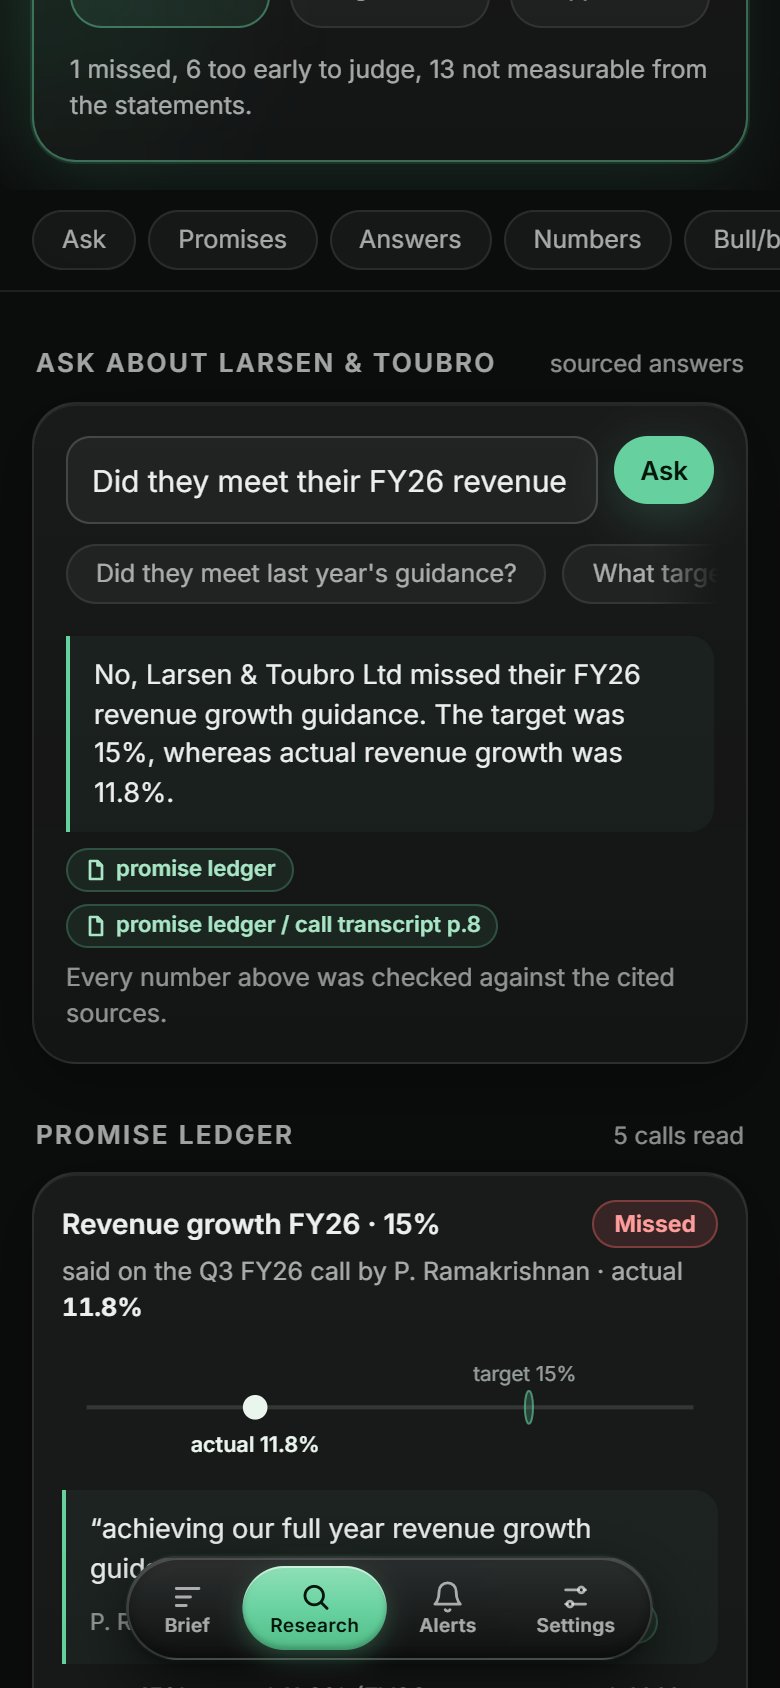
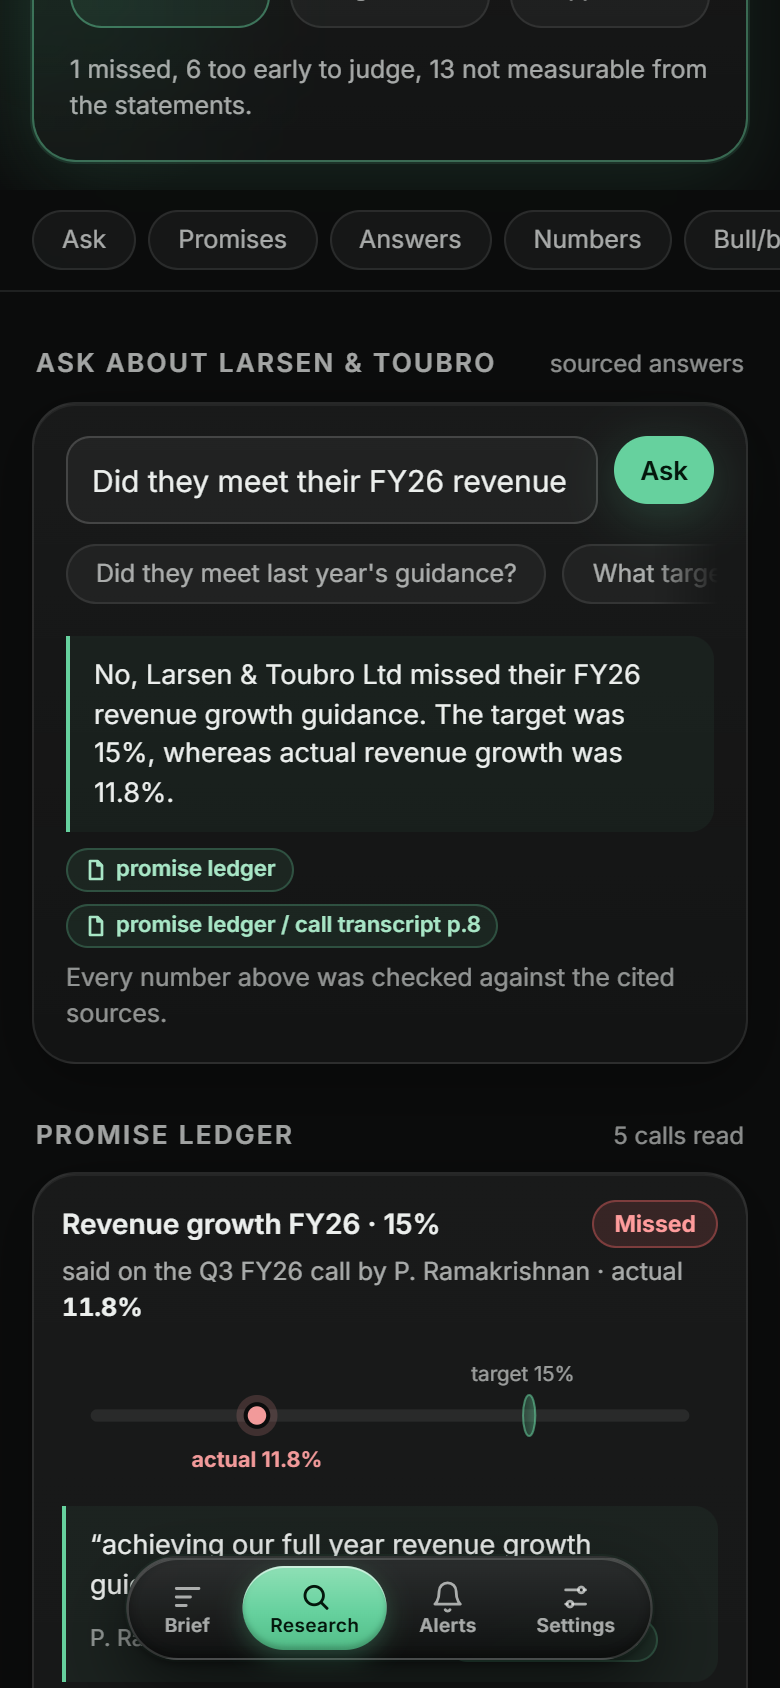
Prettier charts
Revenue chart: gradient bars that grow in, dashed gridlines, a smooth margin
curve that draws itself with a soft fill and dots, and the selected year's
value on top. Cash chart: gradient bars, baseline and a legend. Promise
target band: soft track, gradient band, and the actual marker slides in,
green when the target was met, red when not. Alert strip bars rounded.

Changed region(s): [[0.0923, 0.8009, 0.7692, 0.9858], [0.6154, 0.8009, 0.7385, 0.8626], [0.0615, 0.9858, 0.0923, 1.0]]

diff --git a/frontend/src/components/ui.tsx b/frontend/src/components/ui.tsx
@@ -95,65 +95,132 @@ export function CountUp({ value, format }: { value: number; format: (v: number) 
 }
 
 /** Small bar chart (annual values) with an optional line overlay (margin %). */
+/** Short rupee label for chart tops: 1,83,341 -> "1.83L", 44,465 -> "44.5K". */
+const short = (v?: number | null) => v == null ? "–" : Math.abs(v) >= 1e5 ? `${(v / 1e5).toFixed(2)}L` : Math.abs(v) >= 1e3 ? `${(v / 1e3).toFixed(1)}K` : `${Math.round(v)}`;
+
+/** Smooth line through points (Catmull-Rom as cubic Béziers). */
+function smooth(pts: [number, number][]) {
+  if (pts.length < 2) return "";
+  let d = `M${pts[0][0]},${pts[0][1]}`;
+  for (let i = 0; i < pts.length - 1; i++) {
+    const p0 = pts[i - 1] || pts[i], p1 = pts[i], p2 = pts[i + 1], p3 = pts[i + 2] || p2;
+    const c1 = [p1[0] + (p2[0] - p0[0]) / 6, p1[1] + (p2[1] - p0[1]) / 6];
+    const c2 = [p2[0] - (p3[0] - p1[0]) / 6, p2[1] - (p3[1] - p1[1]) / 6];
+    d += ` C${c1[0]},${c1[1]} ${c2[0]},${c2[1]} ${p2[0]},${p2[1]}`;
+  }
+  return d;
+}
+
 export function Bars({ data, label, metric, fmt, lineName }: {
   data: { x: string; y: number | null; line?: number | null }[]; label: string;
   metric?: string; fmt?: (v: number | null | undefined) => string; lineName?: string;
 }) {
+  const reduce = useReducedMotion();
   const [sel, setSel] = useState(data.length - 1);
-  const W = 340, H = 120, pad = 18;
   const cur = data[Math.min(sel, data.length - 1)];
-  const vals = data.map((d) => d.y ?? 0);
-  const max = Math.max(...vals, 1);
+  const W = 340, H = 168, top = 26, base = 140, left = 6, right = 6;
+  const plotH = base - top;
+  const max = Math.max(...data.map((d) => d.y ?? 0), 1) * 1.05;
+  const bw = (W - left - right) / data.length;
+  const yOf = (v: number) => base - (v / max) * plotH;
   const lines = data.map((d) => d.line).filter((v): v is number => v != null);
-  const lmin = Math.min(...lines, 0), lmax = Math.max(...lines, 1);
-  const bw = (W - pad * 2) / data.length;
+  const lmin = Math.min(...lines), lmax = Math.max(...lines);
+  const ly = (v: number) => top + 4 + (1 - (v - lmin) / (lmax - lmin || 1)) * plotH * 0.5;
+  const marks = data.map((d, i) => (d.line == null ? null : { i, x: left + i * bw + bw / 2, y: ly(d.line) }))
+    .filter((p): p is { i: number; x: number; y: number } => p != null);
+  const pts = marks.map((m) => [m.x, m.y] as [number, number]);
+  const linePath = smooth(pts);
+  const area = pts.length > 1 ? `${linePath} L${pts[pts.length - 1][0]},${base} L${pts[0][0]},${base} Z` : "";
   return (
     <div>
-    {metric && (
-      <div className="bars-head tnum">
-        <span className="faint small">{metric}</span>
-        <span className="small"><b>{cur?.x}</b> · {fmt ? fmt(cur?.y) : cur?.y}{lineName && cur?.line != null ? ` · ${lineName} ${cur.line.toFixed(1)}%` : ""}</span>
-      </div>
-    )}
-    <svg viewBox={`0 0 ${W} ${H + 18}`} width="100%" role="img" aria-label={label}>
-      {data.map((d, i) => {
-        const h = ((d.y ?? 0) / max) * H * 0.85;
-        return (
-          <g key={d.x} onClick={() => setSel(i)} style={{ cursor: "pointer" }}>
-            <rect x={pad + i * bw} y={0} width={bw} height={H + 18} fill="transparent" />
-            <rect x={pad + i * bw + bw * 0.18} y={H - h} width={bw * 0.64} height={Math.max(h, 1)} rx="4"
-              fill={i === sel ? "var(--mint)" : "rgba(102, 209, 158,0.28)"} />
-            <text x={pad + i * bw + bw / 2} y={H + 14} textAnchor="middle" fontSize="10"
-              fill={i === sel ? "rgba(236,239,237,0.9)" : "rgba(236,239,237,0.42)"}>{d.x}</text>
-          </g>
-        );
-      })}
-      {lines.length > 1 && (
-        <polyline fill="none" stroke="#f5c86b" strokeWidth="2" strokeLinejoin="round"
-          points={data.map((d, i) => d.line == null ? "" : `${pad + i * bw + bw / 2},${H - ((d.line - lmin) / (lmax - lmin || 1)) * H * 0.8 - 8}`).filter(Boolean).join(" ")} />
+      {metric && (
+        <div className="bars-head tnum">
+          <span className="faint small">{metric}</span>
+          <span className="small"><b>{cur?.x}</b> · {fmt ? fmt(cur?.y) : cur?.y}{lineName && cur?.line != null ? ` · ${lineName} ${cur.line.toFixed(1)}%` : ""}</span>
+        </div>
       )}
-    </svg>
-    {metric && <div className="faint small" style={{ textAlign: "center", marginTop: 2 }}>Tap a bar to see its numbers</div>}
+      <svg viewBox={`0 0 ${W} ${H}`} width="100%" role="img" aria-label={label} className="chart">
+        <defs>
+          <linearGradient id="bar-on" x1="0" y1="0" x2="0" y2="1">
+            <stop offset="0" stopColor="#9fe6c3" /><stop offset="1" stopColor="var(--mint)" stopOpacity="0.55" />
+          </linearGradient>
+          <linearGradient id="bar-off" x1="0" y1="0" x2="0" y2="1">
+            <stop offset="0" stopColor="var(--mint)" stopOpacity="0.42" /><stop offset="1" stopColor="var(--mint)" stopOpacity="0.06" />
+          </linearGradient>
+          <linearGradient id="line-area" x1="0" y1="0" x2="0" y2="1">
+            <stop offset="0" stopColor="#f5c86b" stopOpacity="0.12" /><stop offset="1" stopColor="#f5c86b" stopOpacity="0" />
+          </linearGradient>
+          <clipPath id="plot"><rect x="0" y="0" width={W} height={base} /></clipPath>
+        </defs>
+        {[0.33, 0.66, 1].map((f) => (
+          <line key={f} x1={left} x2={W - right} y1={base - f * plotH} y2={base - f * plotH} stroke="rgba(255,255,255,0.06)" strokeDasharray="2 4" />
+        ))}
+        <line x1={left} x2={W - right} y1={base} y2={base} stroke="rgba(255,255,255,0.14)" />
+        <g clipPath="url(#plot)">
+          {data.map((d, i) => {
+            const h = base - yOf(d.y ?? 0);
+            const x = left + i * bw + bw * 0.2, w = bw * 0.6;
+            return (
+              <g key={d.x} onClick={() => setSel(i)} style={{ cursor: "pointer" }}>
+                {i === sel && <rect x={left + i * bw + 2} y={top - 6} width={bw - 4} height={base - top + 6} rx="8" fill="rgba(255,255,255,0.035)" />}
+                <motion.rect x={x} width={w} rx={Math.min(7, w / 2)}
+                  initial={reduce ? false : { y: base, height: 0 }} animate={{ y: base - h, height: h + 8 }}
+                  transition={{ duration: 0.6, delay: reduce ? 0 : i * 0.05, ease: [0.2, 0.8, 0.2, 1] }}
+                  fill={i === sel ? "url(#bar-on)" : "url(#bar-off)"} />
+                <rect x={left + i * bw} y={0} width={bw} height={H} fill="transparent" />
+              </g>
+            );
+          })}
+        </g>
+        {area && <path d={area} fill="url(#line-area)" pointerEvents="none" />}
+        {linePath && (
+          <motion.path d={linePath} fill="none" stroke="#f5c86b" strokeWidth="2.2" strokeLinecap="round" pointerEvents="none"
+            initial={reduce ? false : { pathLength: 0 }} animate={{ pathLength: 1 }} transition={{ duration: 0.9, delay: 0.2 }} />
+        )}
+        {marks.map((m) => (
+          <circle key={m.i} cx={m.x} cy={m.y} r={m.i === sel ? 4.5 : 2.6} fill={m.i === sel ? "#f5c86b" : "#0b0c0c"}
+            stroke="#f5c86b" strokeWidth="1.6" pointerEvents="none" />
+        ))}
+        {cur?.y != null && (
+          <text x={left + sel * bw + bw / 2} y={Math.max(12, yOf(cur.y) - 8)} textAnchor="middle" fontSize="10.5" fontWeight="700" fill="#e9f7ef">
+            {short(cur.y)}
+          </text>
+        )}
+        {data.map((d, i) => (
+          <text key={d.x} x={left + i * bw + bw / 2} y={base + 18} textAnchor="middle" fontSize="10"
+            fontWeight={i === sel ? 700 : 500} fill={i === sel ? "rgba(236,239,237,0.95)" : "rgba(236,239,237,0.42)"}>{d.x}</text>
+        ))}
+      </svg>
+      {metric && <div className="faint small" style={{ textAlign: "center", marginTop: 2 }}>Tap a bar to see its numbers</div>}
     </div>
   );
 }
 
 /** Target band vs actual: where the actual landed relative to the promised range. */
 export function BandChart({ low, high, actual, unit }: { low: number | null; high: number | null; actual: number | null; unit: string }) {
+  const reduce = useReducedMotion();
   const lo = low ?? high ?? 0, hi = high ?? low ?? 0;
   const vals = [lo, hi, actual ?? lo];
   const min = Math.min(...vals) - Math.max(2, Math.abs(hi - lo)), max = Math.max(...vals) + Math.max(2, Math.abs(hi - lo));
-  const x = (v: number) => 12 + ((v - min) / (max - min)) * 296;
+  const x = (v: number) => 14 + ((v - min) / (max - min)) * 292;
+  const hit = actual != null && actual >= Math.min(lo, hi) - 0.5;
+  const col = actual == null ? "#ecefed" : hit ? "var(--up)" : "#f29a9a";
   return (
-    <svg viewBox="0 0 320 52" width="100%" role="img" aria-label={`target ${lo} to ${hi}${unit}, actual ${actual ?? "not yet"}${unit}`}>
-      <line x1="12" x2="308" y1="26" y2="26" stroke="rgba(255,255,255,0.12)" strokeWidth="2" />
-      <rect x={x(lo)} y="18" width={Math.max(x(hi) - x(lo), 4)} height="16" rx="8" fill="rgba(102, 209, 158,0.22)" stroke="rgba(102, 209, 158,0.6)" />
-      <text x={(x(lo) + x(hi)) / 2} y="13" textAnchor="middle" fontSize="10" fill="rgba(234,245,238,0.6)">target {lo === hi ? lo : `${lo}–${hi}`}{unit}</text>
+    <svg viewBox="0 0 320 60" width="100%" role="img" aria-label={`target ${lo} to ${hi}${unit}, actual ${actual ?? "not yet"}${unit}`} className="chart">
+      <defs>
+        <linearGradient id="band-fill" x1="0" y1="0" x2="1" y2="0">
+          <stop offset="0" stopColor="var(--mint)" stopOpacity="0.18" /><stop offset="1" stopColor="var(--mint)" stopOpacity="0.38" />
+        </linearGradient>
+      </defs>
+      <rect x="14" y="27" width="292" height="6" rx="3" fill="rgba(255,255,255,0.07)" />
+      <rect x={x(lo)} y="20" width={Math.max(x(hi) - x(lo), 6)} height="20" rx="10" fill="url(#band-fill)" stroke="rgba(102, 209, 158,0.55)" />
+      <text x={(x(lo) + x(hi)) / 2} y="13" textAnchor="middle" fontSize="10" fill="rgba(236,239,237,0.62)">target {lo === hi ? lo : `${lo}–${hi}`}{unit}</text>
       {actual != null && (
-        <g>
-          <circle cx={x(actual)} cy="26" r="6" fill="#eaf5ee" />
-          <text x={x(actual)} y="48" textAnchor="middle" fontSize="10.5" fontWeight="600" fill="#eaf5ee">actual {actual}{unit}</text>
-        </g>
+        <motion.g initial={reduce ? false : { x: x(min) - x(actual), opacity: 0 }} animate={{ x: 0, opacity: 1 }} transition={{ duration: 0.7, ease: [0.2, 0.8, 0.2, 1] }}>
+          <circle cx={x(actual)} cy="30" r="10" fill={col} opacity="0.18" />
+          <circle cx={x(actual)} cy="30" r="5.5" fill={col} stroke="#0b0c0c" strokeWidth="2" />
+          <text x={x(actual)} y="55" textAnchor="middle" fontSize="10.5" fontWeight="700" fill={col}>actual {actual}{unit}</text>
+        </motion.g>
       )}
     </svg>
   );

diff --git a/frontend/src/screens/Research.tsx b/frontend/src/screens/Research.tsx
@@ -569,23 +569,31 @@ function Cash({ c }: { c: Json }) {
       <Title meta="operating cash vs profit">Cash quality</Title>
       <div className="glass card">
         {!c.lender && (
-          <svg viewBox="0 0 340 110" width="100%" role="img" aria-label="Operating cash flow compared with profit by year">
+          <svg viewBox="0 0 340 122" width="100%" role="img" aria-label="Operating cash flow compared with profit by year" className="chart">
+            <defs>
+              <linearGradient id="cash-g" x1="0" y1="0" x2="0" y2="1"><stop offset="0" stopColor="#9fe6c3" /><stop offset="1" stopColor="var(--mint)" stopOpacity="0.35" /></linearGradient>
+              <linearGradient id="pat-g" x1="0" y1="0" x2="0" y2="1"><stop offset="0" stopColor="rgba(255,255,255,0.42)" /><stop offset="1" stopColor="rgba(255,255,255,0.08)" /></linearGradient>
+            </defs>
+            {[0.5, 1].map((f) => <line key={f} x1="14" x2="326" y1={96 - f * 78} y2={96 - f * 78} stroke="rgba(255,255,255,0.06)" strokeDasharray="2 4" />)}
+            <line x1="14" x2="326" y1="96" y2="96" stroke="rgba(255,255,255,0.14)" />
             {rows.map((r, i) => {
               const max = Math.max(...rows.flatMap((x) => [x.cfo || 0, x.pat || 0]), 1);
-              const bw = 300 / rows.length, x0 = 20 + i * bw;
-              const h1 = ((r.pat || 0) / max) * 80, h2 = ((r.cfo || 0) / max) * 80;
+              const bw = 312 / rows.length, x0 = 14 + i * bw;
+              const h1 = Math.max(((r.pat || 0) / max) * 78, 1), h2 = Math.max(((r.cfo || 0) / max) * 78, 1);
               return (
                 <g key={r.year_end}>
-                  <rect x={x0 + bw * 0.15} y={90 - h1} width={bw * 0.32} height={Math.max(h1, 1)} rx="3" fill="rgba(255,255,255,0.25)" />
-                  <rect x={x0 + bw * 0.5} y={90 - h2} width={bw * 0.32} height={Math.max(h2, 1)} rx="3" fill="var(--mint)" />
-                  <text x={x0 + bw / 2} y="104" textAnchor="middle" fontSize="10" fill="rgba(234,245,238,0.42)">FY{r.year_end.slice(2, 4)}</text>
+                  <motion.rect x={x0 + bw * 0.14} width={bw * 0.32} rx="4" fill="url(#pat-g)"
+                    initial={{ y: 96, height: 0 }} animate={{ y: 96 - h1, height: h1 }} transition={{ duration: 0.6, delay: i * 0.05 }} />
+                  <motion.rect x={x0 + bw * 0.52} width={bw * 0.32} rx="4" fill="url(#cash-g)"
+                    initial={{ y: 96, height: 0 }} animate={{ y: 96 - h2, height: h2 }} transition={{ duration: 0.6, delay: 0.1 + i * 0.05 }} />
+                  <text x={x0 + bw / 2} y="114" textAnchor="middle" fontSize="10" fill="rgba(236,239,237,0.45)">FY{r.year_end.slice(2, 4)}</text>
                 </g>
               );
             })}
           </svg>
         )}
         <div className="small muted">{c.reading || c.note}</div>
-        {!c.lender && <div className="faint small" style={{ marginTop: 4 }}>grey = profit · mint = operating cash flow</div>}
+        {!c.lender && <div className="legend"><span><i className="dot-pat" />profit</span><span><i className="dot-cash" />operating cash flow</span></div>}
       </div>
     </>
   );

diff --git a/frontend/src/styles.css b/frontend/src/styles.css
@@ -391,3 +391,12 @@ button:active, .chip:active, .why-btn:active, .btn:active { transform: scale(0.9
 .take-dot { color: var(--text-3); font-weight: 400; }
 
 .bars-head { display: flex; justify-content: space-between; align-items: baseline; gap: 8px; flex-wrap: wrap; margin-bottom: 6px; }
+
+.chart { overflow: visible; }
+.legend { display: flex; gap: 14px; margin-top: 6px; font-size: 11.5px; color: var(--text-3); }
+.legend span { display: inline-flex; align-items: center; gap: 6px; }
+.legend i { width: 9px; height: 9px; border-radius: 3px; display: inline-block; }
+.legend .dot-pat { background: rgba(255,255,255,0.35); }
+.legend .dot-cash { background: var(--mint); }
+.strip > div { border-radius: 3px 3px 1px 1px; }
+.strip > div.fire { background: linear-gradient(180deg, #9fe6c3, var(--mint)); }
